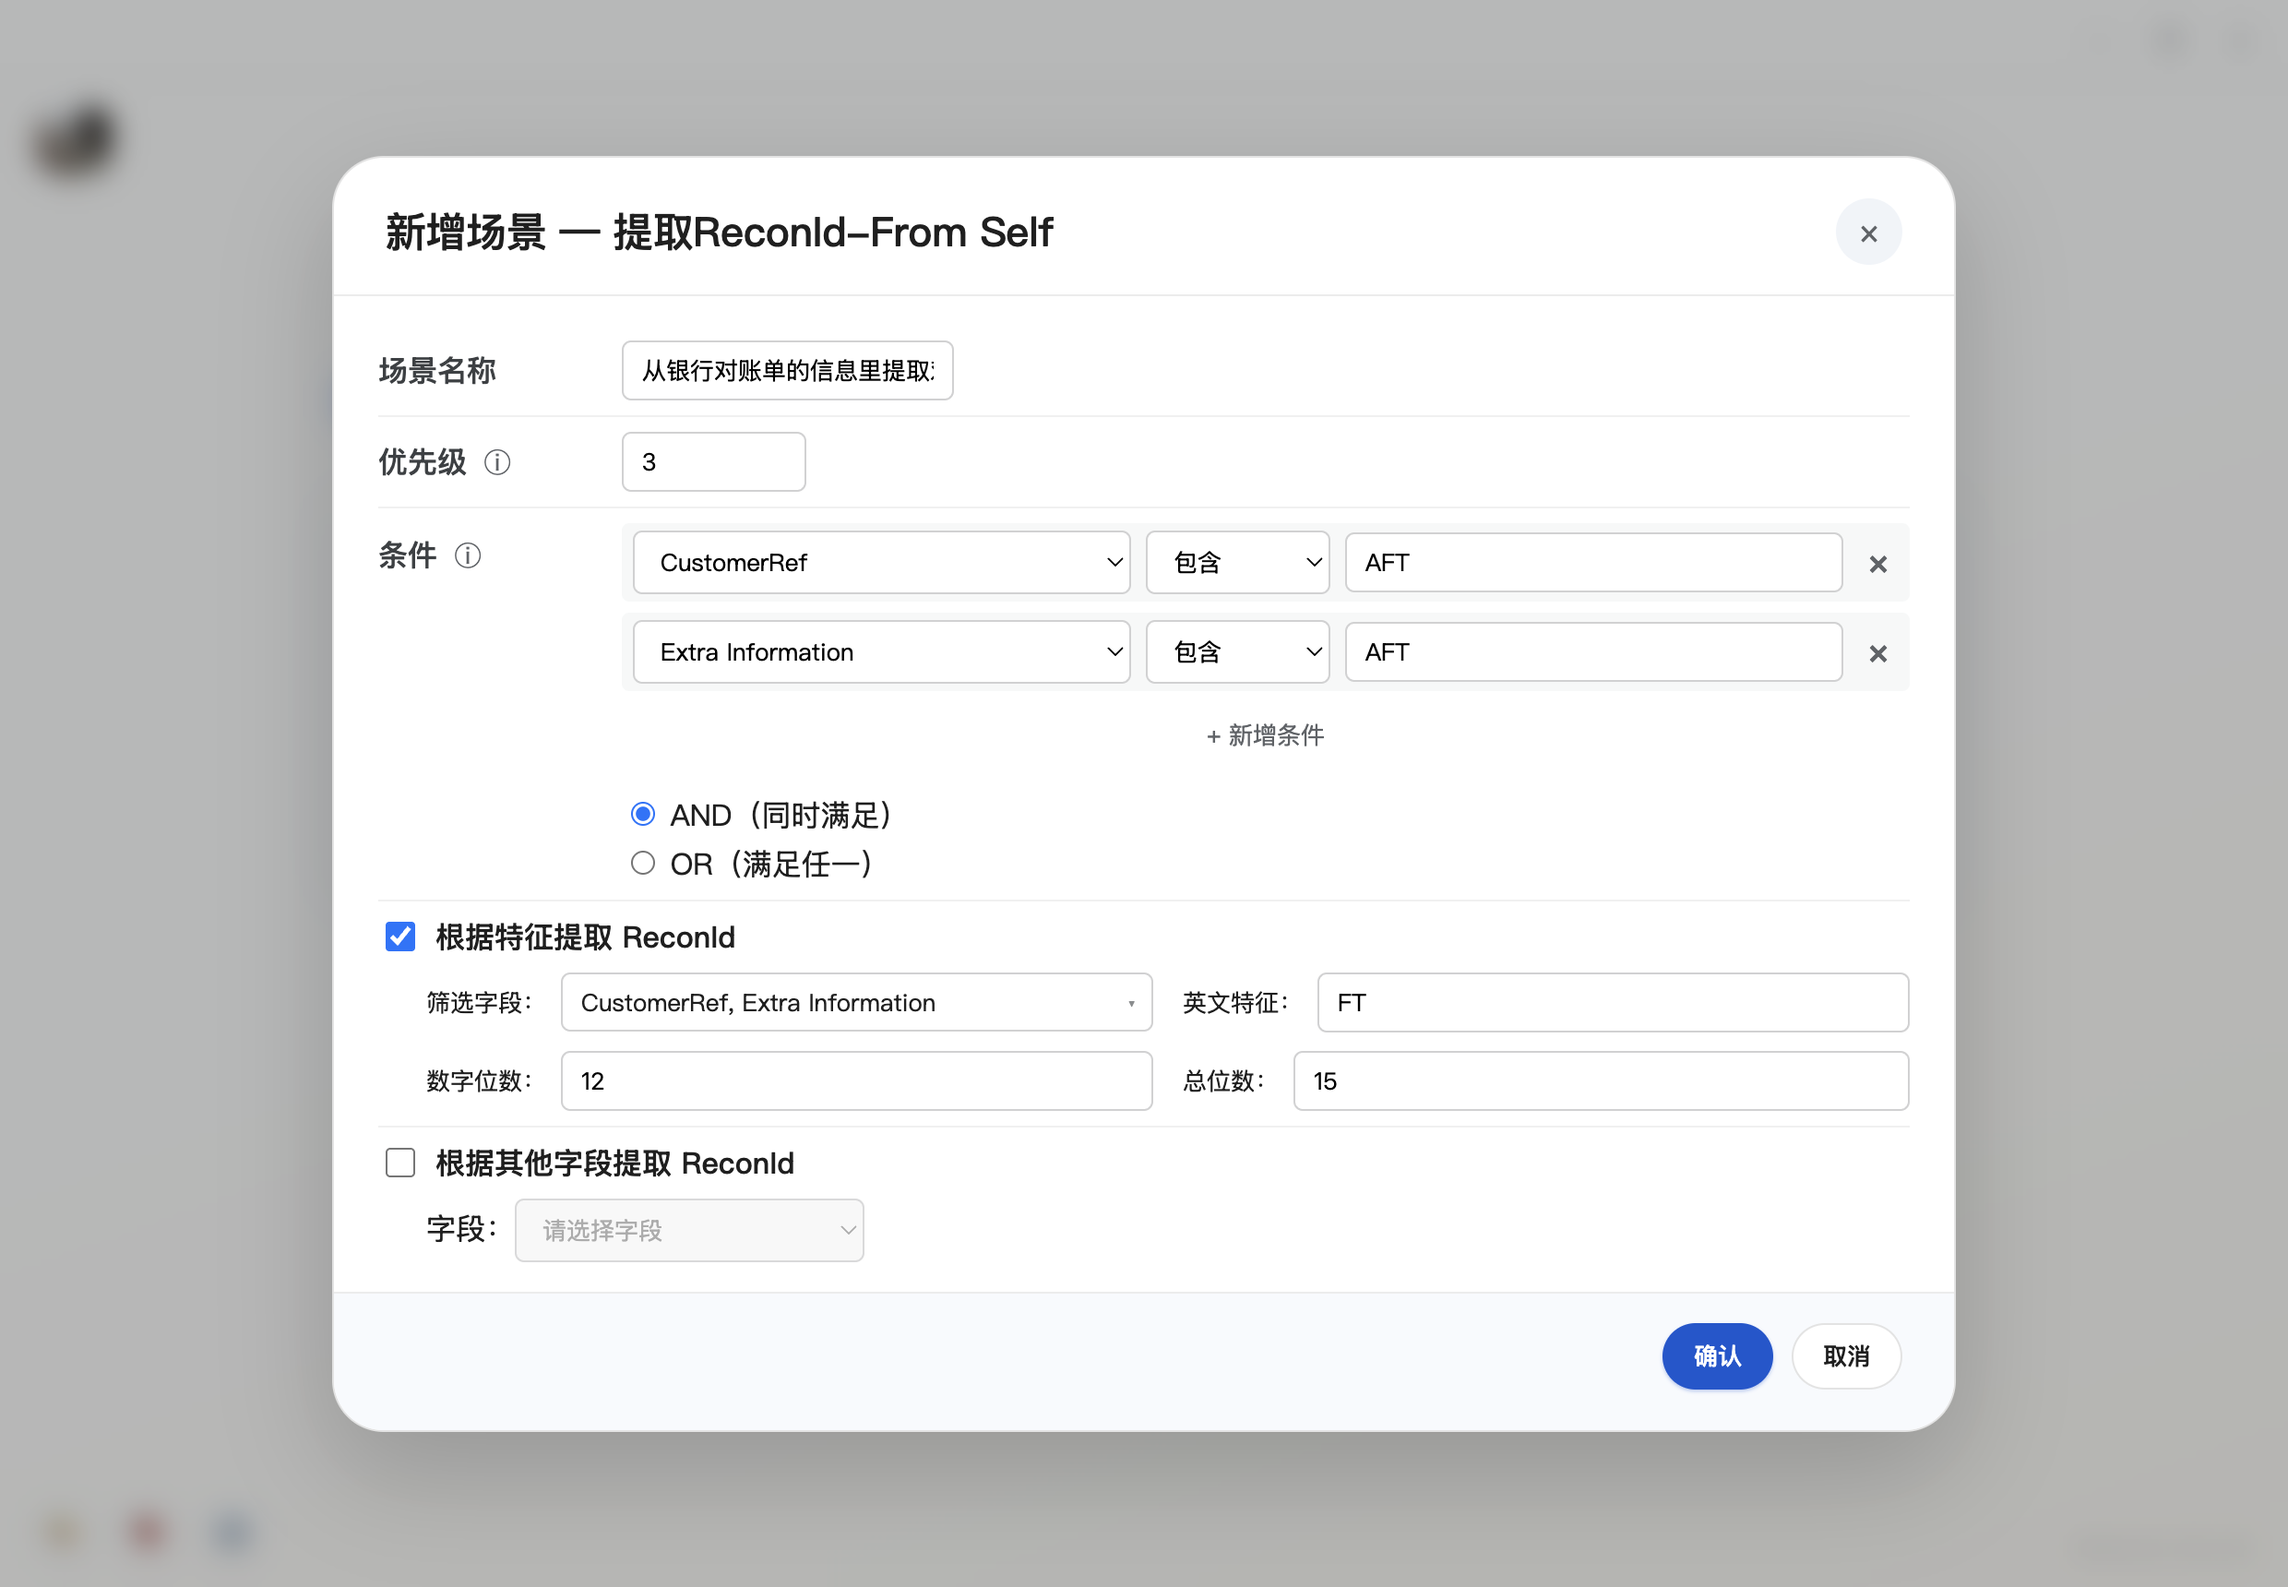
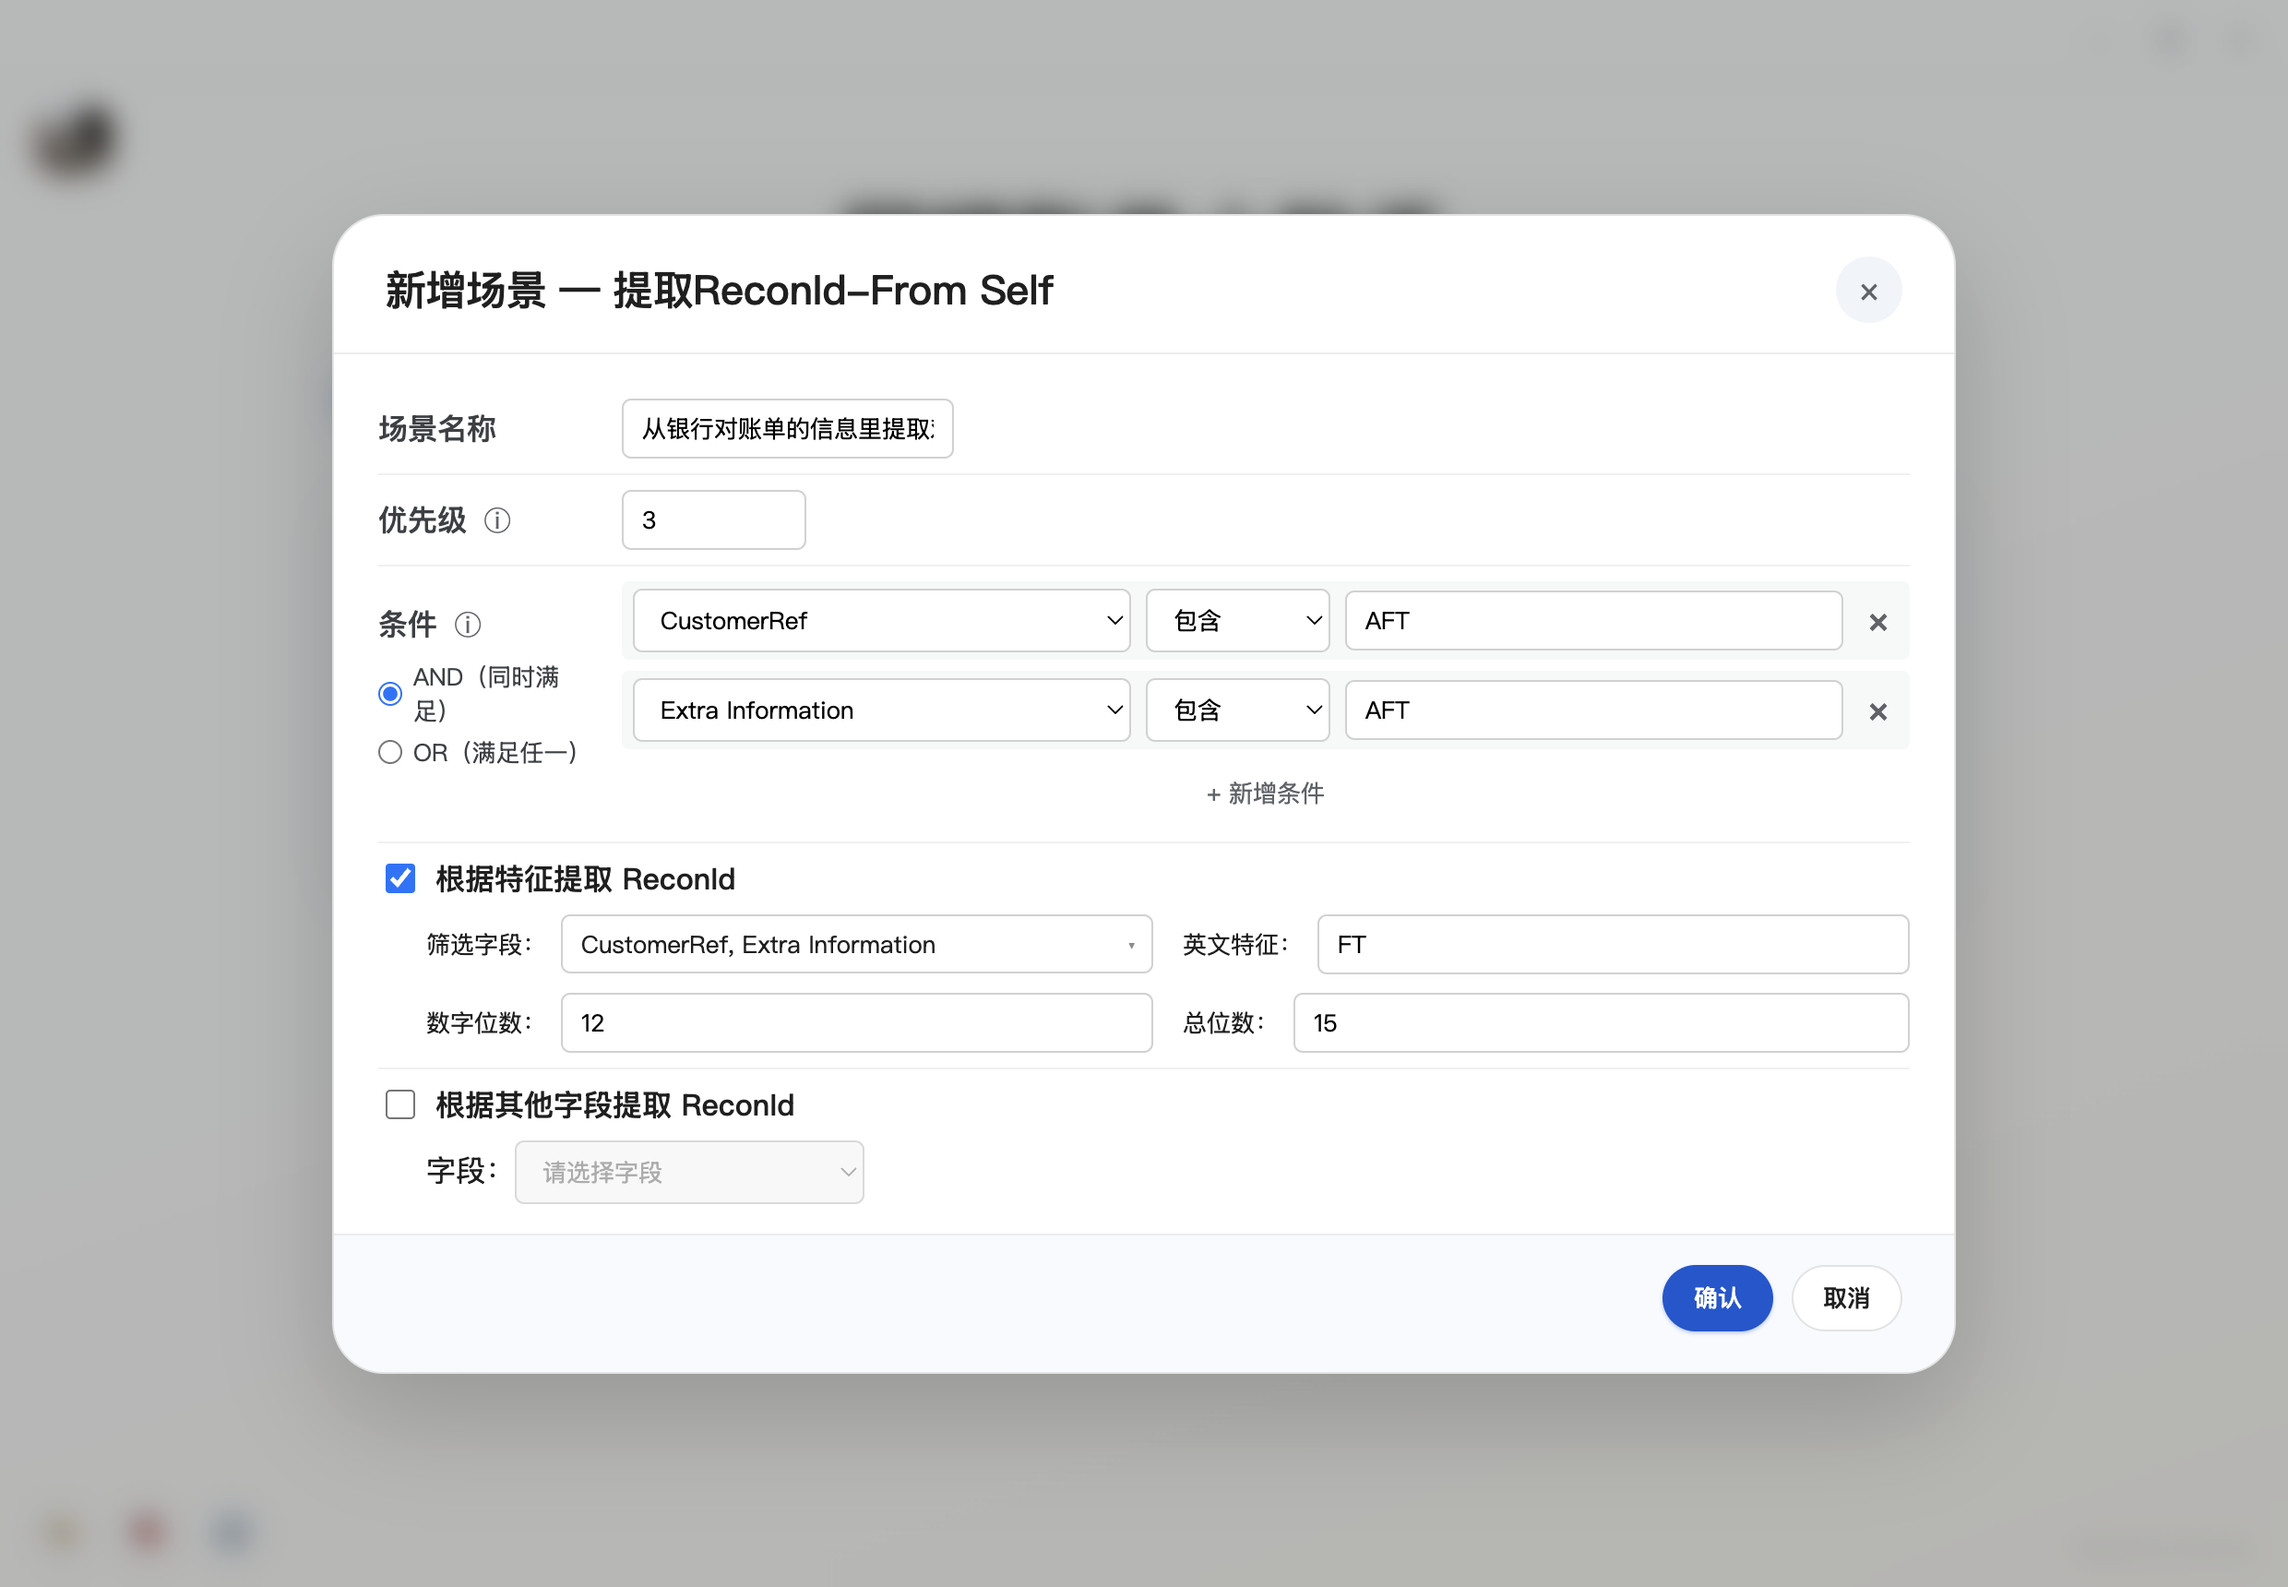
[v2.1.7] fix(B1): F1 Layout-1 — 条件 label 下方纵向 AND/OR + 字体 13px 与筛选字段对齐
用户拍板 Layout-1（spec §10.2 / PRD §16.2）：
   左列纵向堆叠 [label '条件 ⓘ' + AND（同时满足） + OR（满足任一）]
   右列 conditions 列表 + '+ 新增条件' 按钮

═══ DOM 重组（spec §10.2.2）═══

src/renderer-dialogs.js L6335-6357 改后：
- 新增 .scenario-config-label-stack 左列容器（替代原裸 span label）
- 内部纵向堆叠：
  - <span class='scenario-config-label'>条件 ⓘ</span>
  - <div class='scenario-config-logic-inline'> 含 2 个 <label class='scenario-config-logic-option'> radio
- 右列 .scenario-config-multi-wrap 不动（conditions 列表 + 按钮）
- AND 在 OR 之前（spec §10.2.2 + 与 R5 资金红线一致）

═══ CSS 改造（spec §10.2.3）═══

src/styles-gemini-extra.css + Clear/styles-gemini-extra.css 双写：
- 替换 round 2/3 死代码 .scenario-config-logic-stack / -stack-option（grep 验证无 HTML 引用）
- 新增 .scenario-config-label-stack：width:120px + flex column + gap:8px + align-self:flex-start + padding-top:6px
  （width 与 .scenario-config-label 同宽保持右列视觉位置不变）
- 新增 .scenario-config-logic-inline：flex column + gap:4px（纵向 AND 在上 OR 在下）
- 新增 .scenario-config-logic-option（radio label）：font-size:13px + font-weight:normal + color:#3c4043
  ⭐ 字体 13px 与 .scenario-config-feature-grid label '筛选字段' 一致（spec §10.2.3 关键 UX 要求）
  ⭐ font-weight:normal 不复用 .scenario-config-label 的 500（radio 是控件标签，非标题）

src/styles.css（spec 参考路径，disabled）：同步清理 round 1/2 死代码（.scenario-config-logic-row / -label / -stack）+ 加 round 4 范式
   保持与 styles-gemini-extra.css（生效路径）语义一致

═══ 资金红线护栏（spec §10.2.4，R5 三层不动）═══

✅ createDefaultScenarioConfig 仅 mode=create 默认 'AND'
[…]

diff --git a/src/renderer-dialogs.js b/src/renderer-dialogs.js
@@ -6332,23 +6332,26 @@
             <span class="scenario-config-label">优先级 <span class="scenario-config-tooltip" title="3 = 最高，0 = 最低">ⓘ</span></span>
             <input class="scenario-config-input scenario-config-input-narrow" type="number" min="0" max="3" data-field="priority" ${isReadonly ? 'disabled' : ''} value="${draft.priority ?? 0}">
           </div>
+          <!-- v2.1.7 round 4 B1（spec §10.2.2 Layout-1 用户拍板）：
+               左列 .scenario-config-label-stack 纵向堆叠 label "条件" + AND/OR radio；右列 conditions 列表 + 按钮
+               资金红线护栏 R5 三层不动（默认 config / pickConditionsLogicChecked / 引擎 fallback OR） -->
           <div class="scenario-config-row scenario-config-row-multi">
-            <span class="scenario-config-label">条件 <span class="scenario-config-tooltip" title="按下方选择的聚合逻辑">ⓘ</span></span>
-            <div class="scenario-config-multi-wrap">
-              <div class="scenario-config-multi-rows" data-multi="conditions"></div>
-              ${isReadonly ? '' : '<button class="text-action small" type="button" data-action="add-condition">+ 新增条件</button>'}
-              <!-- v2.1.7 round 3 B1：radio 移回"条件"row 内部（用户反馈 R5 独立 row 视觉不一致；spec §9.2.2）
-                   保留 R5 资金红线三层护栏（默认 config / pickConditionsLogicChecked / 引擎 fallback OR）不动 -->
-              <div class="scenario-config-logic-inline" style="margin-top:8px;">
-                <label style="display:block; margin-bottom:4px;">
+            <div class="scenario-config-label-stack">
+              <span class="scenario-config-label">条件 <span class="scenario-config-tooltip" title="按下方选择的聚合逻辑">ⓘ</span></span>
+              <div class="scenario-config-logic-inline">
+                <label class="scenario-config-logic-option">
                   <input type="radio" name="conditionsLogic" value="AND" ${checkedLogic === 'AND' ? 'checked' : ''} ${isReadonly ? 'disabled' : ''}>
                   AND（同时满足）
                 </label>
-                <label style="display:block;">
+                <label class="scenario-config-logic-option">
                   <input type="radio" name="conditionsLogic" value="OR" ${checkedLogic === 'OR' ? 'checked' : ''} ${isReadonly ? 'disabled' : ''}>
                   OR（满足任一）
                 </label>
               </div>
+            </div>
+            <div class="scenario-config-multi-wrap">
+              <div class="scenario-config-multi-rows" data-multi="conditions"></div>
+              ${isReadonly ? '' : '<button class="text-action small" type="button" data-action="add-condition">+ 新增条件</button>'}
             </div>
           </div>
           <div class="scenario-config-row scenario-config-row-mutex">

diff --git a/src/styles.css b/src/styles.css
@@ -3034,53 +3034,42 @@ select {
   gap: 6px;
 }
 
-/* v2.1.7 F1：C1 dialog 条件聚合 AND/OR radio 行（round 1 横向版） */
-.scenario-config-logic-row {
+/* v2.1.7 round 4 B1（spec §10.2.3 Layout-1，spec 参考路径；实际生效在 styles-gemini-extra.css）
+   左列 label-stack 纵向堆叠 label "条件" + AND/OR radio；右列 conditions
+   原 round 1 横向 .scenario-config-logic-row / -label / round 2 -stack / -stack-option 已废弃
+   保留 .scenario-config-logic-option / -inline 作 round 4 范式 */
+.scenario-config-label-stack {
+  flex-shrink: 0;
+  width: 120px;
   display: flex;
-  align-items: center;
-  gap: 14px;
-  padding: 4px 6px;
-  font-size: 13px;
-  color: #8b7355;
+  flex-direction: column;
+  gap: 8px;
+  align-self: flex-start;
+  padding-top: 6px;
 }
 
-.scenario-config-logic-label {
-  font-weight: 500;
-  color: #8b7355;
+.scenario-config-logic-inline {
+  display: flex;
+  flex-direction: column;
+  gap: 4px;
 }
 
 .scenario-config-logic-option {
-  display: inline-flex;
+  display: flex;
   align-items: center;
-  gap: 4px;
-  cursor: pointer;
-  color: var(--text, #333);
+  gap: 6px;
   font-size: 13px;
+  font-weight: normal;
+  color: #3c4043;
+  cursor: pointer;
+}
+
+.scenario-config-logic-option input[type="radio"] {
+  margin: 0;
+  cursor: pointer;
 }
 
 .scenario-config-logic-option input[disabled] {
-  cursor: not-allowed;
-}
-
-/* v2.1.7 round 2 R5：C1 dialog 条件聚合 radio 重排 — 独立 row + 纵向（AND 在上 OR 在下）
-   label 字体大小/字重通过 HTML 复用 .scenario-config-label 标准样式（spec §8.6.1） */
-.scenario-config-logic-stack {
-  display: flex;
-  flex-direction: column;
-  gap: 6px;
-  padding-top: 4px;
-}
-
-.scenario-config-logic-stack-option {
-  display: flex;
-  align-items: center;
-  gap: 6px;
-  cursor: pointer;
-  color: var(--text, #333);
-  font-size: 13px;
-}
-
-.scenario-config-logic-stack-option input[disabled] {
   cursor: not-allowed;
 }
 

diff --git a/src/styles-gemini-extra.css b/src/styles-gemini-extra.css
@@ -2370,25 +2370,44 @@ select.mapping-text-input {
   gap: 6px;
 }
 
-/* v2.1.7 round 2 R5：C1 dialog 条件聚合 radio 重排 — 独立 row + 纵向（AND 在上 OR 在下）
-   label 字体大小/字重通过 HTML 复用 .scenario-config-label 标准样式（spec §8.6.1） */
-.scenario-config-logic-stack {
+/* v2.1.7 round 4 B1（spec §10.2.3 Layout-1 用户拍板）：scenario-config-label-stack 左列容器
+   纵向堆叠 label "条件" + AND/OR radio；右列 .scenario-config-multi-wrap conditions 列表
+   注：原 round 2/3 .scenario-config-logic-stack / -stack-option 死代码（无 HTML 引用）已被本块替换 */
+.scenario-config-label-stack {
+  flex-shrink: 0;
+  width: 120px;            /* 与 .scenario-config-label 同宽（保持右列视觉位置不变）*/
   display: flex;
   flex-direction: column;
-  gap: 6px;
-  padding-top: 4px;
+  gap: 8px;
+  align-self: flex-start;
+  padding-top: 6px;        /* 对齐原 .scenario-config-row-multi .scenario-config-label padding-top */
 }
 
-.scenario-config-logic-stack-option {
+/* B1 round 4：label-stack 内部 radio 容器（纵向 AND 在上 OR 在下） */
+.scenario-config-logic-inline {
+  display: flex;
+  flex-direction: column;
+  gap: 4px;
+}
+
+/* B1 round 4：radio label 字体 13px（与 .scenario-config-feature-grid label "筛选字段" 对齐；spec §10.2.3）
+   不复用 .scenario-config-label 的 font-weight: 500（radio 是控件标签，非标题文案） */
+.scenario-config-logic-option {
   display: flex;
   align-items: center;
   gap: 6px;
-  cursor: pointer;
-  color: var(--text, #333);
   font-size: 13px;
+  font-weight: normal;
+  color: #3c4043;
+  cursor: pointer;
 }
 
-.scenario-config-logic-stack-option input[disabled] {
+.scenario-config-logic-option input[type="radio"] {
+  margin: 0;
+  cursor: pointer;
+}
+
+.scenario-config-logic-option input[disabled] {
   cursor: not-allowed;
 }
 

diff --git a/Clear/styles-gemini-extra.css b/Clear/styles-gemini-extra.css
@@ -1218,24 +1218,40 @@ tr.add-row .text-action:hover { background: #c2d7fa; }
   white-space: pre-wrap;
 }
 
-/* v2.1.7 round 2 R5：与 src/styles-gemini-extra.css 同步 — C1 dialog 条件聚合 radio 重排 */
-.scenario-config-logic-stack {
+/* v2.1.7 round 4 B1（spec §10.2.3 Layout-1）：与 src/styles-gemini-extra.css 同步
+   左列 label-stack + radio 纵向；右列 conditions（原 round 2/3 -stack 死代码替换为 round 4 范式）*/
+.scenario-config-label-stack {
+  flex-shrink: 0;
+  width: 120px;
   display: flex;
   flex-direction: column;
-  gap: 6px;
-  padding-top: 4px;
+  gap: 8px;
+  align-self: flex-start;
+  padding-top: 6px;
 }
 
-.scenario-config-logic-stack-option {
+.scenario-config-logic-inline {
+  display: flex;
+  flex-direction: column;
+  gap: 4px;
+}
+
+.scenario-config-logic-option {
   display: flex;
   align-items: center;
   gap: 6px;
-  cursor: pointer;
-  color: var(--text, #333);
   font-size: 13px;
+  font-weight: normal;
+  color: #3c4043;
+  cursor: pointer;
 }
 
-.scenario-config-logic-stack-option input[disabled] {
+.scenario-config-logic-option input[type="radio"] {
+  margin: 0;
+  cursor: pointer;
+}
+
+.scenario-config-logic-option input[disabled] {
   cursor: not-allowed;
 }
 
